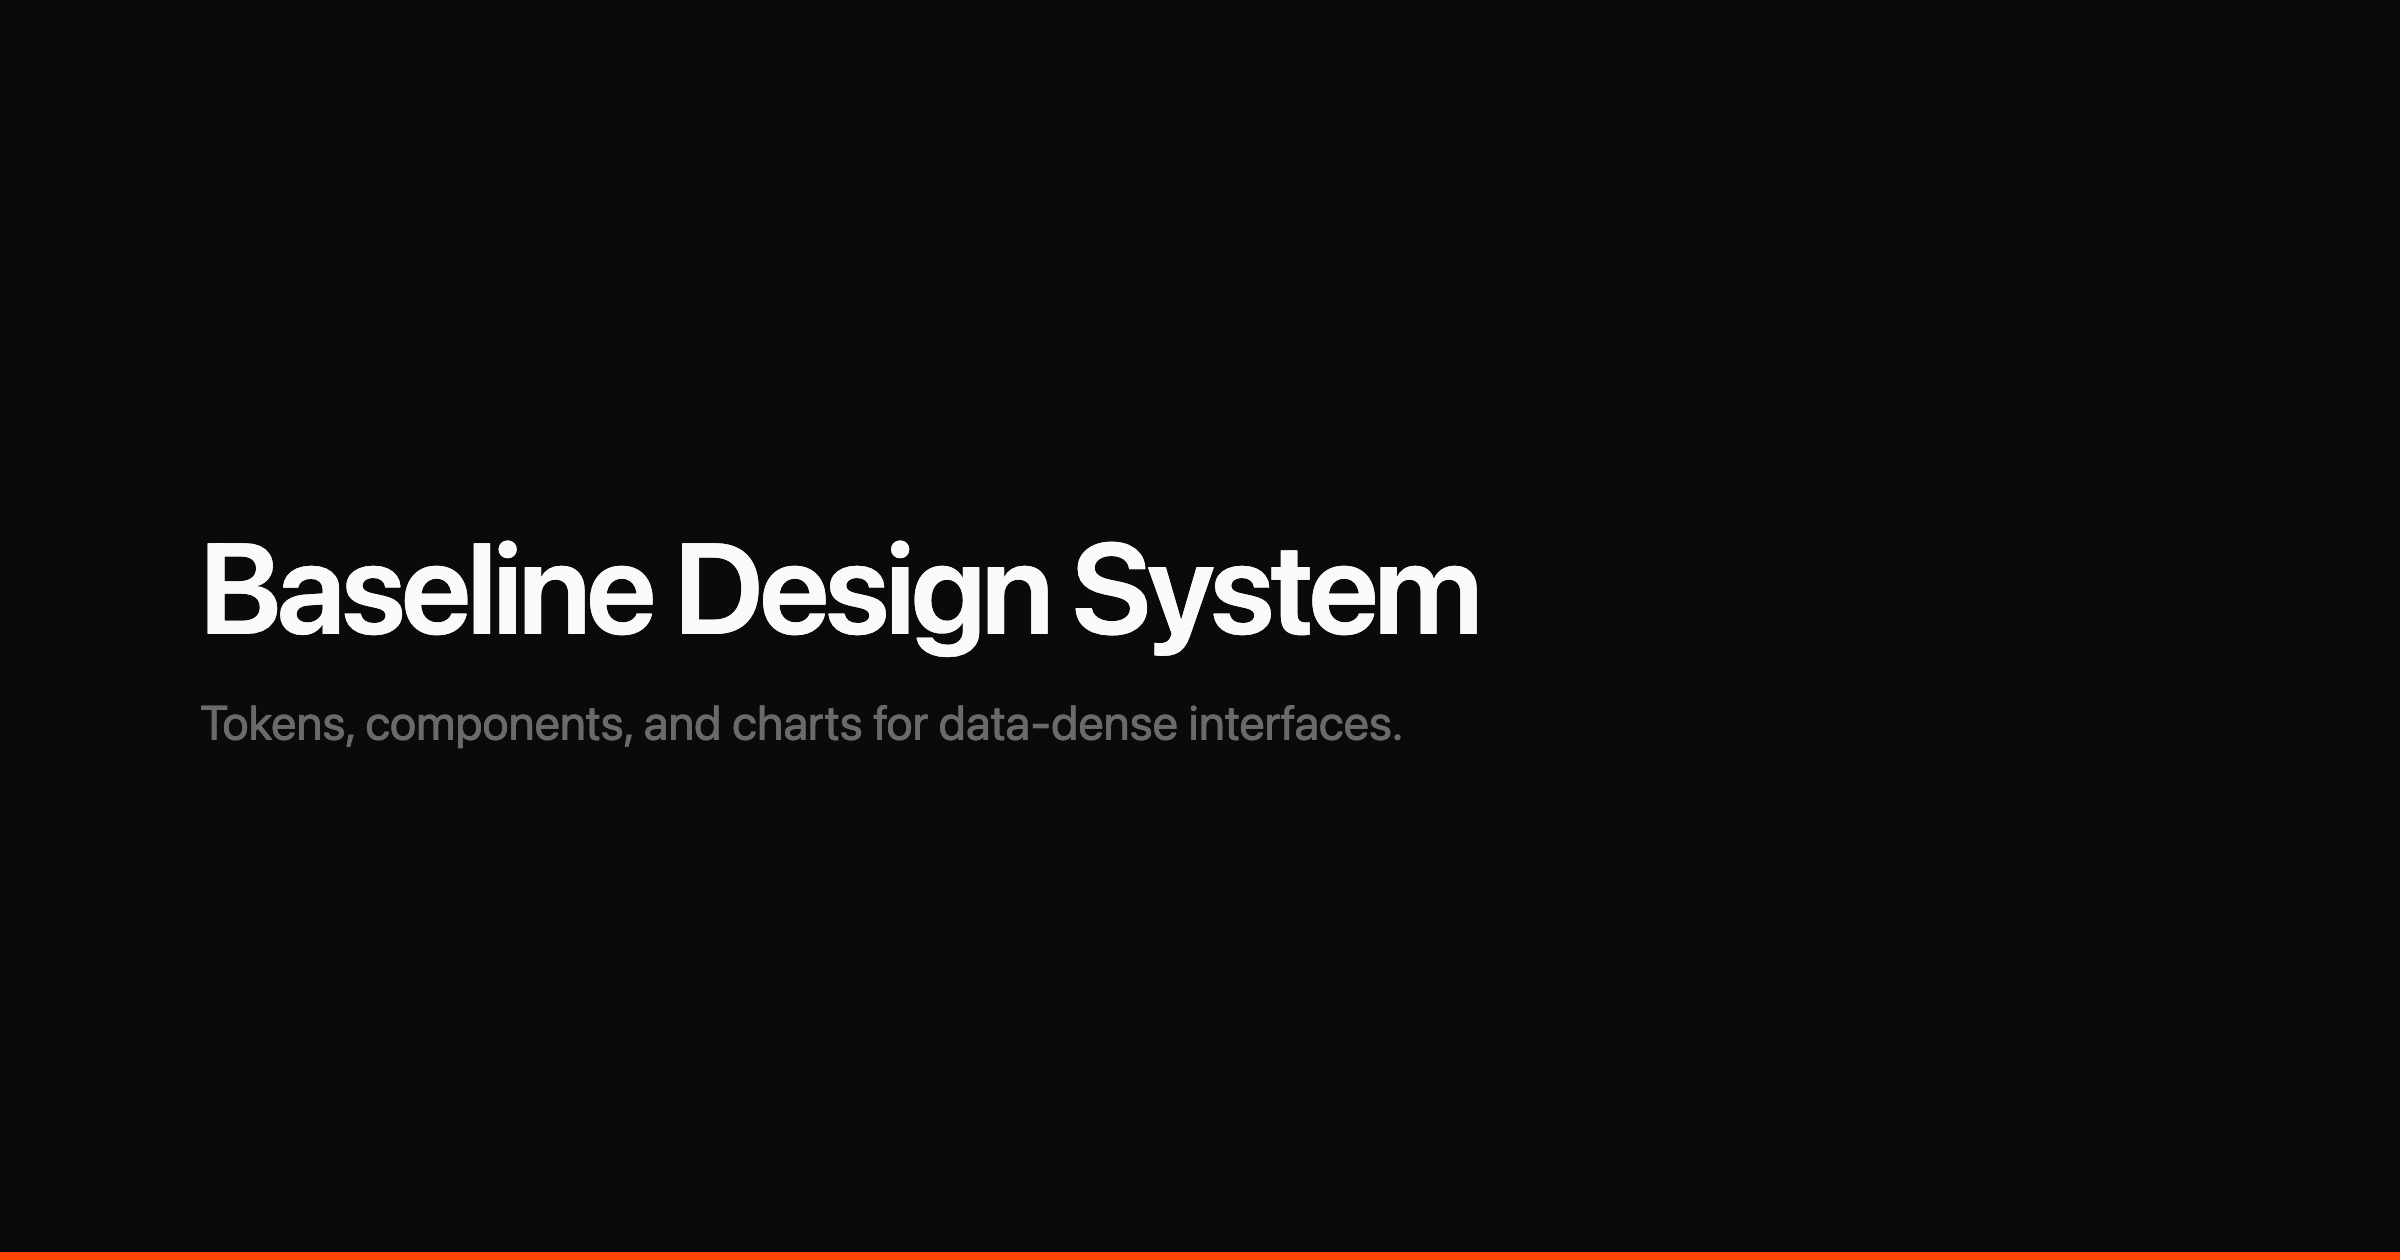
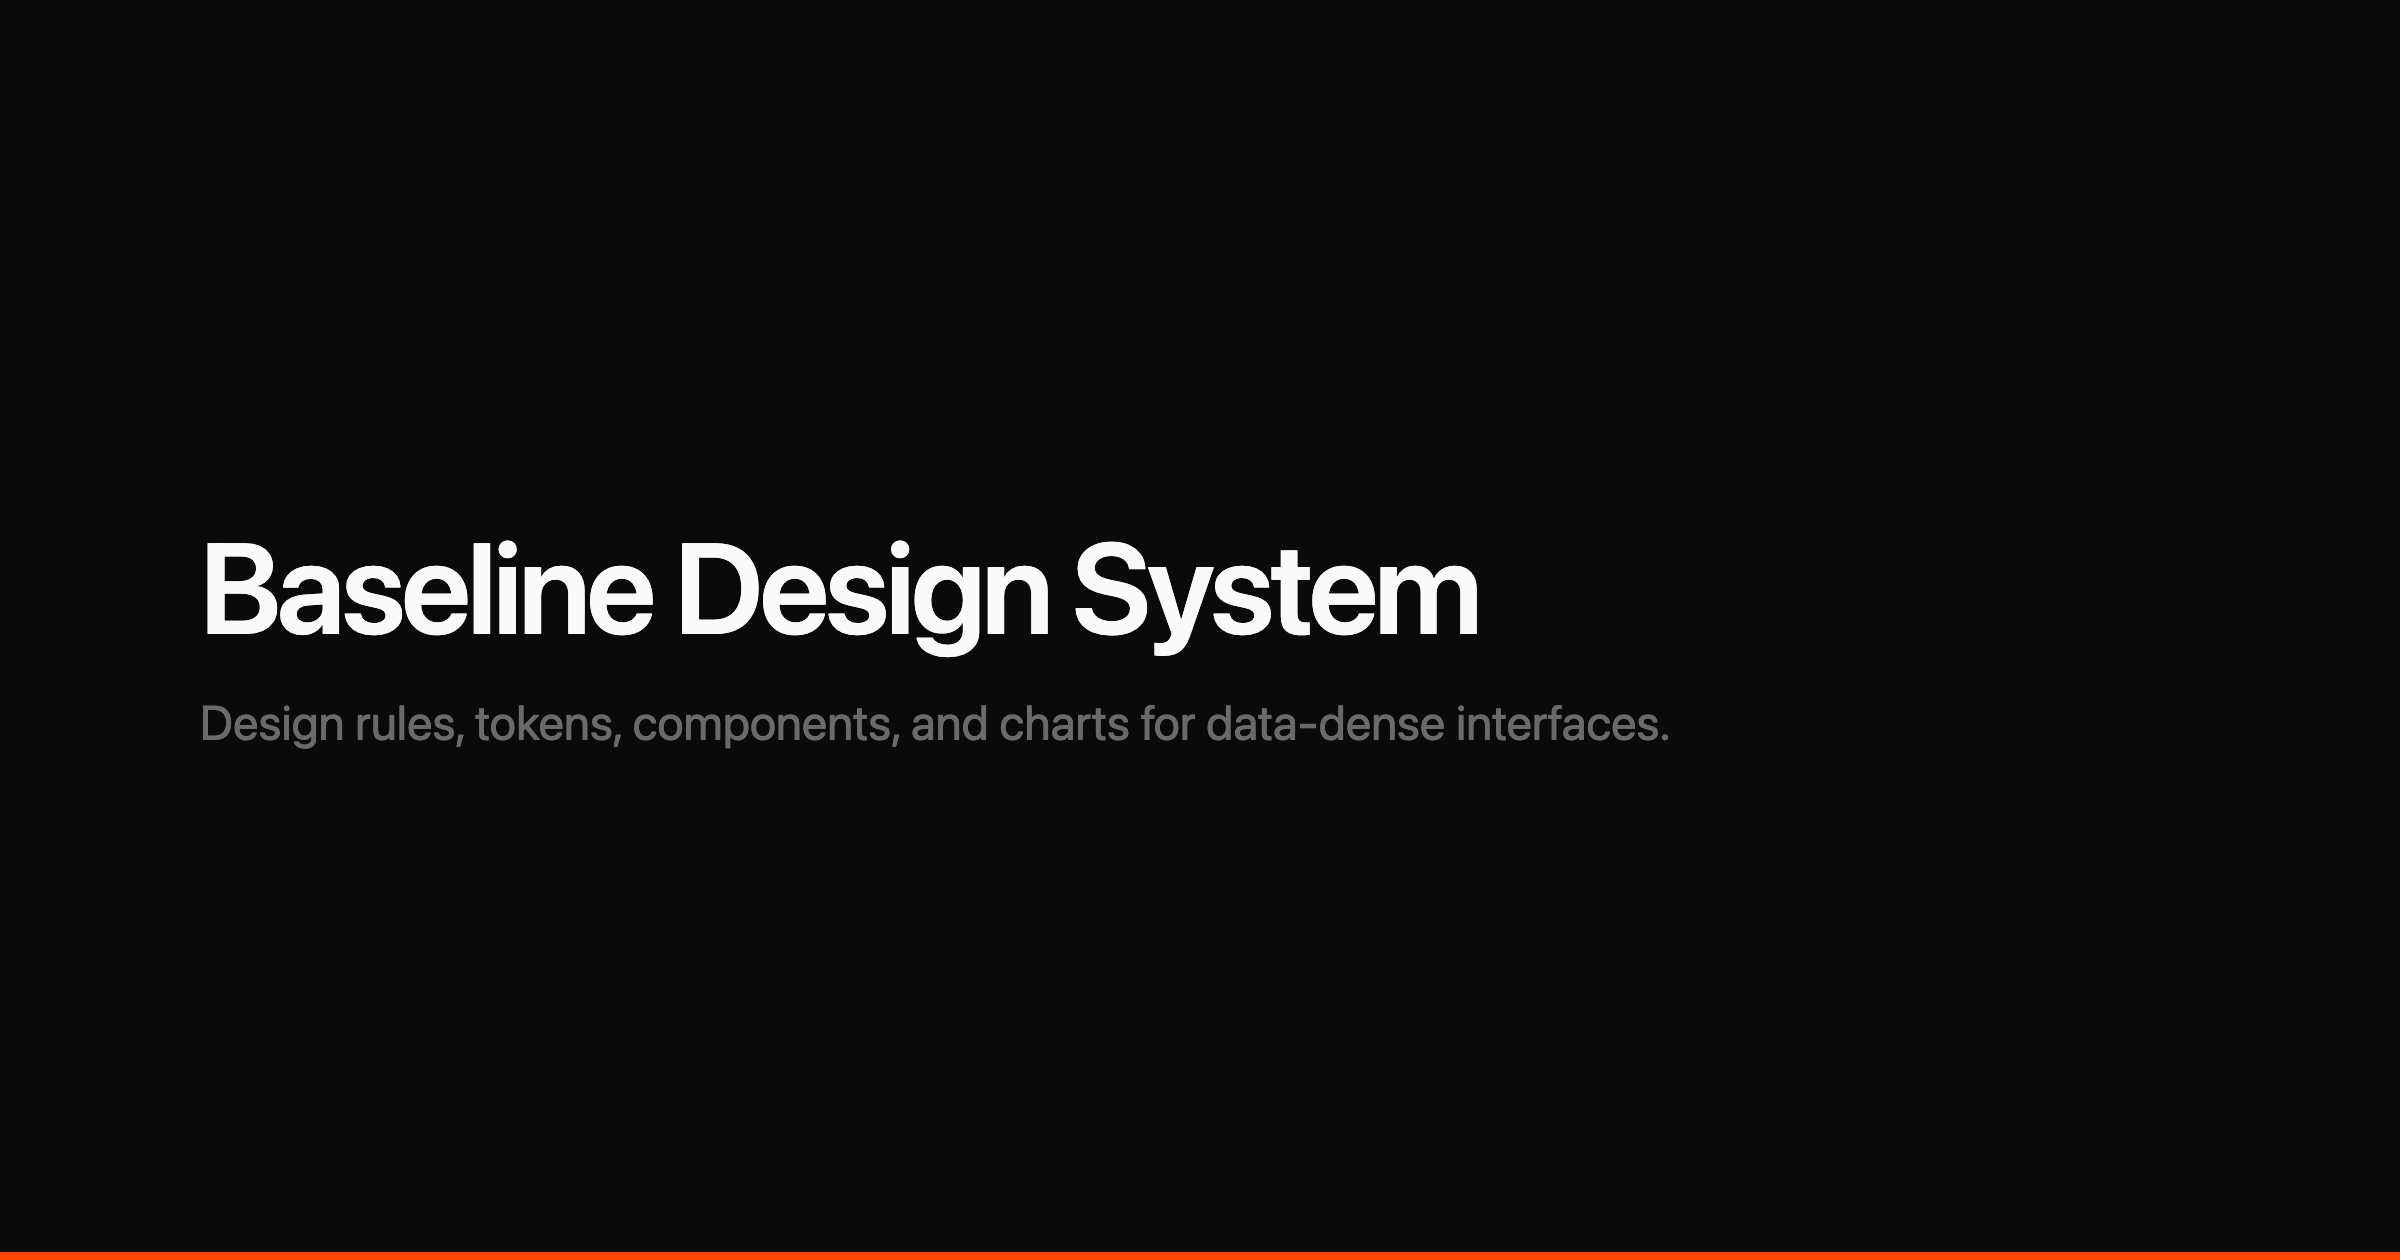
Update OG image and meta descriptions to include design rules

Changed region(s): [[0.0625, 0.5571, 0.6875, 0.5881]]

diff --git a/index.html b/index.html
@@ -4,7 +4,7 @@
     <meta charset="UTF-8" />
     <meta name="viewport" content="width=device-width, initial-scale=1.0" />
     <title>Baseline Design System</title>
-    <meta name="description" content="Tokens, components, and charts for data-dense interfaces." />
+    <meta name="description" content="Design rules, tokens, components, and charts for data-dense interfaces." />
 
     <!-- Favicons -->
     <link rel="icon" type="image/svg+xml" href="/favicon.svg" />
@@ -14,7 +14,7 @@
     <!-- Open Graph -->
     <meta property="og:type" content="website" />
     <meta property="og:title" content="Baseline Design System" />
-    <meta property="og:description" content="Tokens, components, and charts for data-dense interfaces." />
+    <meta property="og:description" content="Design rules, tokens, components, and charts for data-dense interfaces." />
     <meta property="og:image" content="https://baseline-design-system.vercel.app/og-image.png" />
     <meta property="og:image:width" content="2400" />
     <meta property="og:image:height" content="1260" />
@@ -22,7 +22,7 @@
     <!-- Twitter Card -->
     <meta name="twitter:card" content="summary_large_image" />
     <meta name="twitter:title" content="Baseline Design System" />
-    <meta name="twitter:description" content="Tokens, components, and charts for data-dense interfaces." />
+    <meta name="twitter:description" content="Design rules, tokens, components, and charts for data-dense interfaces." />
     <meta name="twitter:image" content="https://baseline-design-system.vercel.app/og-image.png" />
 
     <!-- Theme -->